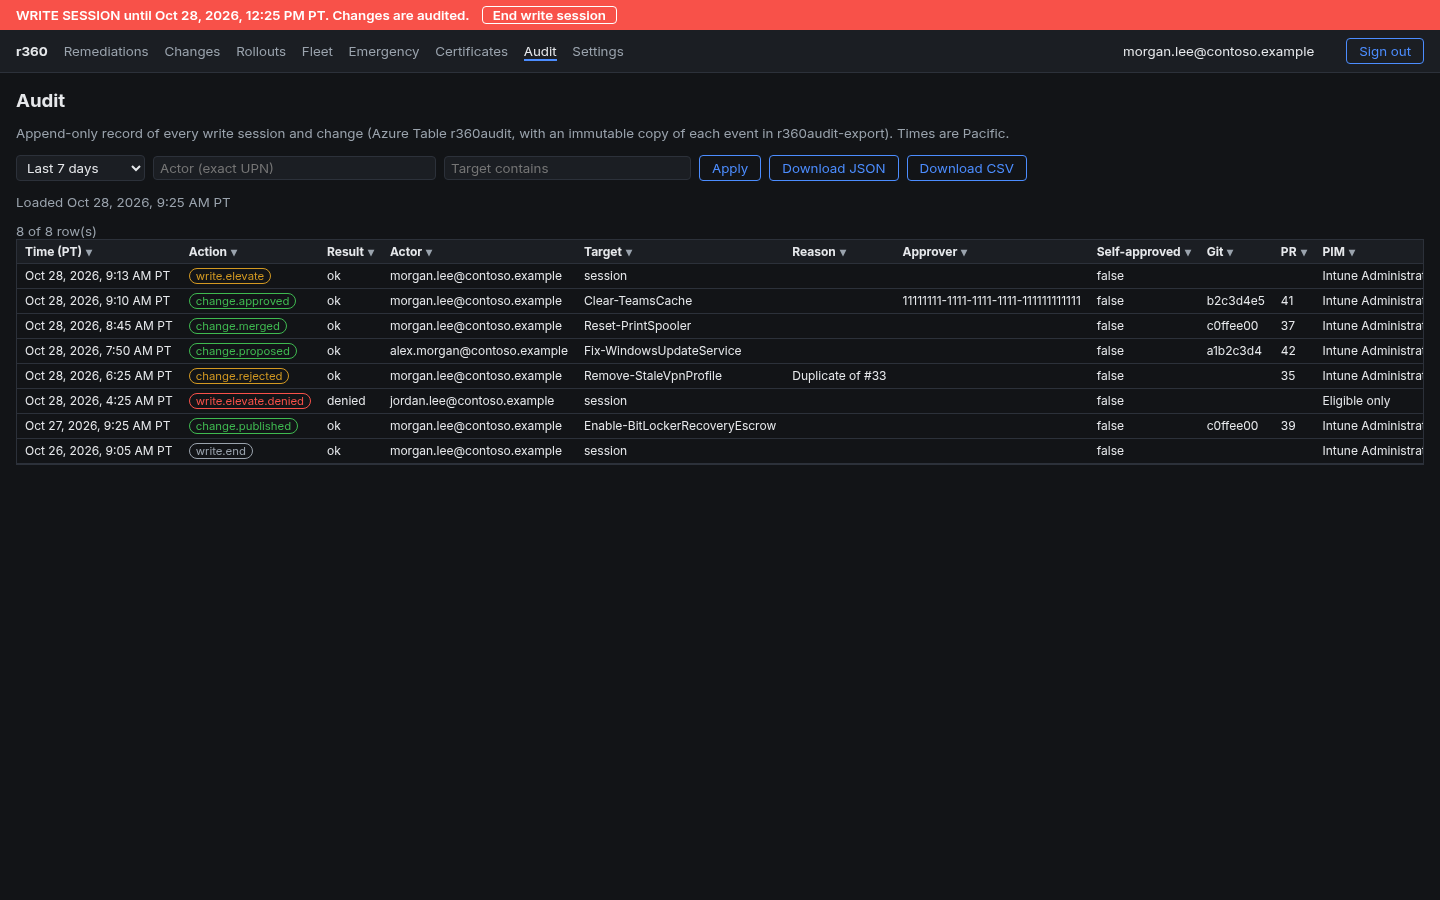
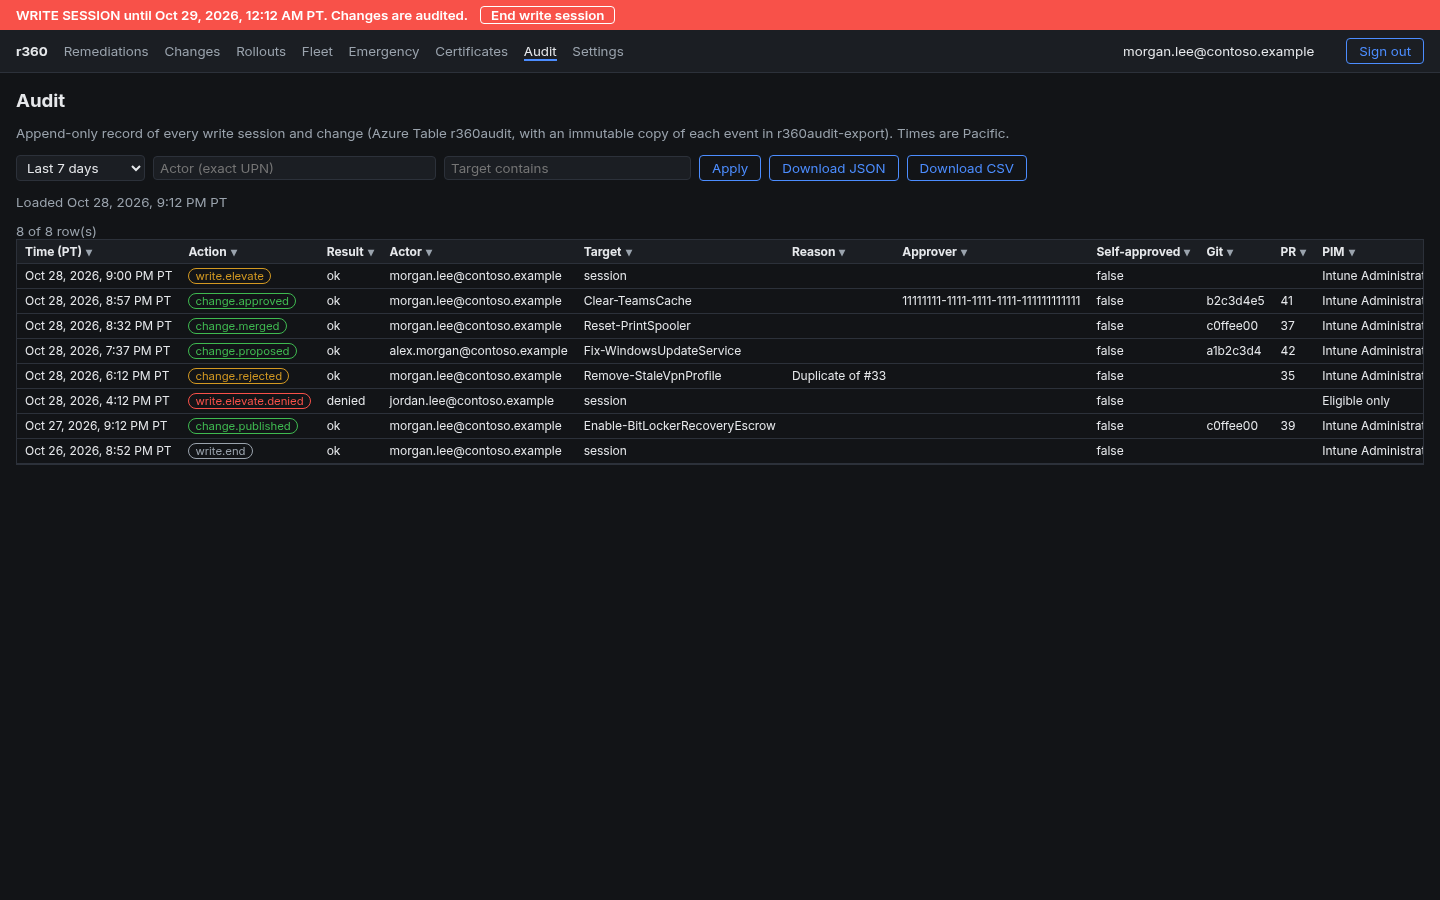
Export from private 1b5c100

diff --git a/README.md b/README.md
@@ -69,10 +69,16 @@ Design: [docs/remediation-360-design.md](docs/remediation-360-design.md). Phase 
 - Security headers include a strict CSP and `frame-ancestors 'none'`.
 
 ## Screenshots
+All screenshots are local renders of the real UI with fictional sample data (contoso.example). No tenant data.
+
 | | |
 |---|---|
-| ![Promote panel](docs/screenshots/promote-panel.png) | ![Changes](docs/screenshots/changes.png) |
-| *Promote panel with the group picker* | *Changes: author, approve, publish* |
+| ![Remediations](docs/screenshots/remediations.png) | ![Fleet](docs/screenshots/fleet.png) |
+| *Remediations: repo vs Intune drift and run counts* | *Fleet: per-device run state for every remediation* |
+| ![Certificates](docs/screenshots/certificates.png) | ![Settings](docs/screenshots/settings.png) |
+| *Certificates: signing cert profiles and device status* | *Settings: your roles, PIM status and configuration* |
+| ![Changes](docs/screenshots/changes.png) | ![Promote panel](docs/screenshots/promote-panel.png) |
+| *Changes: author, approve, publish* | *Promote panel with the group picker* |
 | ![Audit](docs/screenshots/audit.png) | |
 | *Audit trail* | |
 
